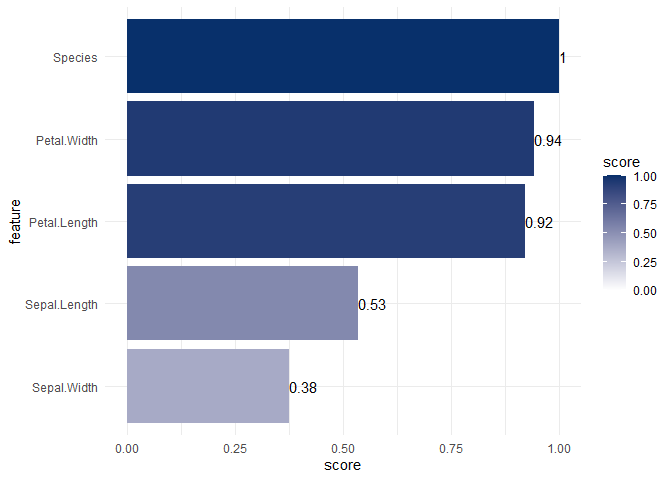
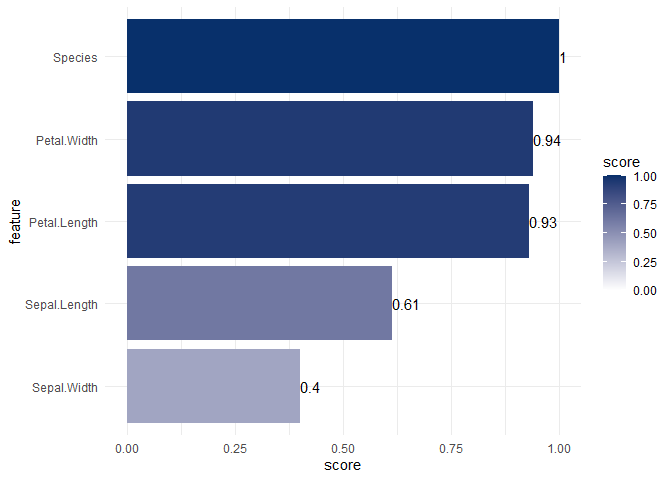
textual changes after final checks

diff --git a/README.md b/README.md
@@ -70,16 +70,16 @@ ppsr::score(x = iris$Sepal.Length, y = iris$Sepal.Width)
 ``` r
 ppsr::score_predictors(df = iris, y = 'Species')
 #> $Sepal.Length
-#> [1] 0.6321187
+#> [1] 0.6142833
 #> 
 #> $Sepal.Width
-#> [1] 0.372417
+#> [1] 0.4014296
 #> 
 #> $Petal.Length
-#> [1] 0.9279138
+#> [1] 0.9299341
 #> 
 #> $Petal.Width
-#> [1] 0.9419077
+#> [1] 0.9399976
 #> 
 #> $Species
 #> [1] 1
@@ -92,7 +92,7 @@ ppsr::score_matrix(df = iris)
 #> Sepal.Width     0.1822185   1.0000000    0.3000489   0.3174639 0.2237120
 #> Petal.Length    0.6687765   0.2815605    1.0000000   0.8072795 0.7972117
 #> Petal.Width     0.5436489   0.2301854    0.7732164   1.0000000 0.7630875
-#> Species         0.5712140   0.4646447    0.9333353   0.9367246 1.0000000
+#> Species         0.6142833   0.4014296    0.9299341   0.9399976 1.0000000
 ```
 
 ## Visualizing PPS
